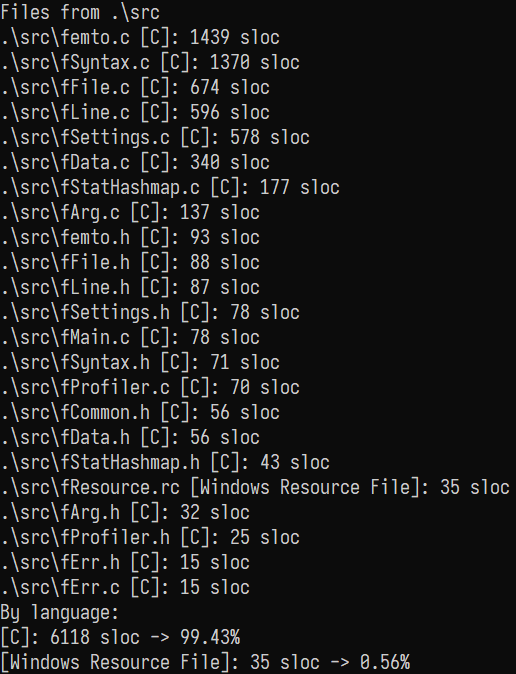
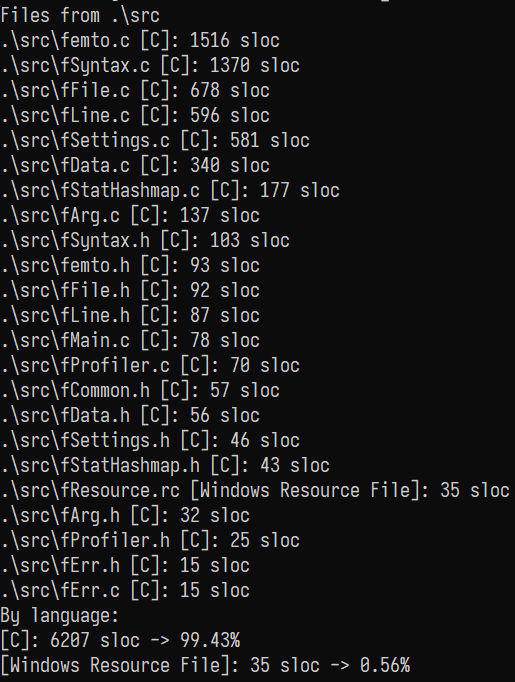
Update sloc

Changed region(s): [[0.0, 0.0, 0.9942, 1.0], [0.6524, 0.9659, 0.8078, 0.997], [0.5903, 0.2493, 0.6524, 0.3116]]

diff --git a/README.md b/README.md
@@ -13,7 +13,7 @@ It is also written in vanilla C & Win32 Console API - it's designed to be used s
 It has been compiled with MinGW GCC.
 
 Currently, my other tool [slocWin32](https://github.com/makuke1234/slocWin32)
-reports ~6100 source code lines (excluding whitespace, comments, language keywords & [jsonlite2](https://github.com/makuke1234/jsonlite2) library):
+reports ~6200 source code lines (excluding whitespace, comments, language keywords & [jsonlite2](https://github.com/makuke1234/jsonlite2) library):
 
 ![SLOC](./images/sloc.png)
 
@@ -203,6 +203,7 @@ Have a look at the provided [settings file](./settings.json) to get a better und
 	* [ ] Proper text copying/pasting support
 		* *Copying is already implicitly supported by the console itself, although limited to only 1 screenbuffer at a time*
 	* [x] Port codebase to use universal integer sizes `size_t` & `ssize_t` (signed)
+	* [x] Properly fixed search functionality
 
 * 2.0
 	* [x] More common C++ keywords
